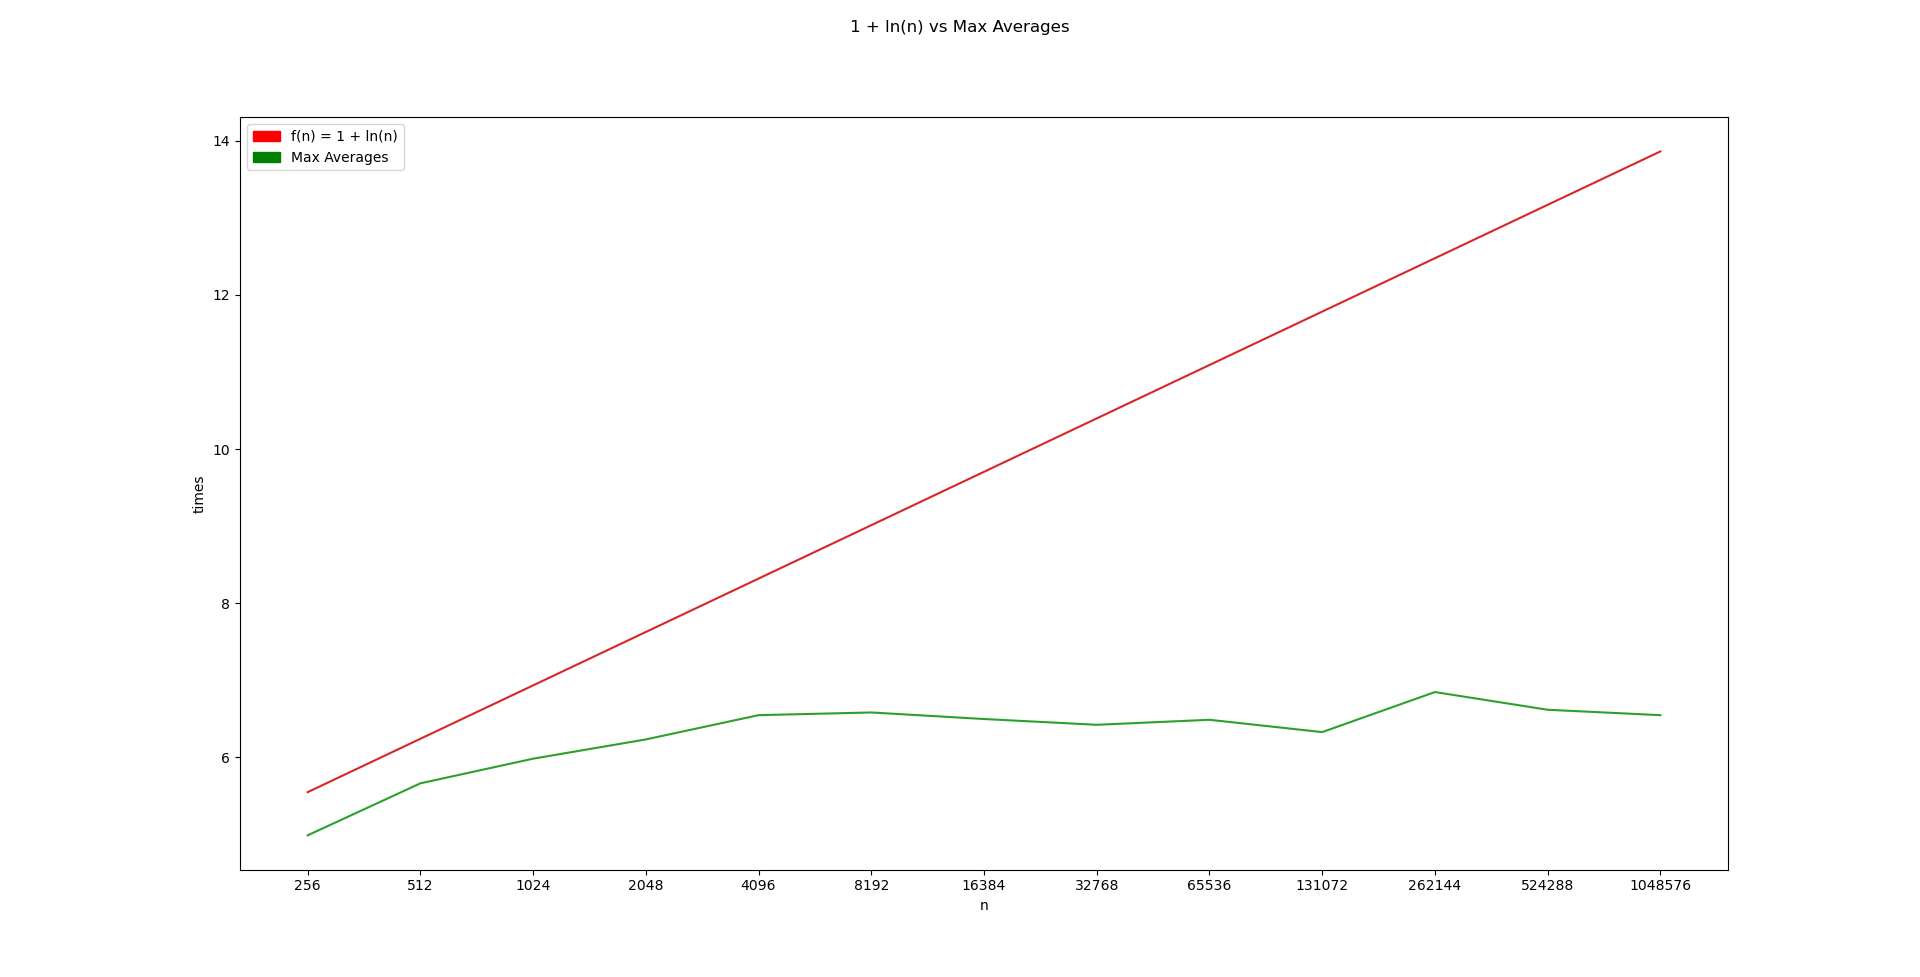
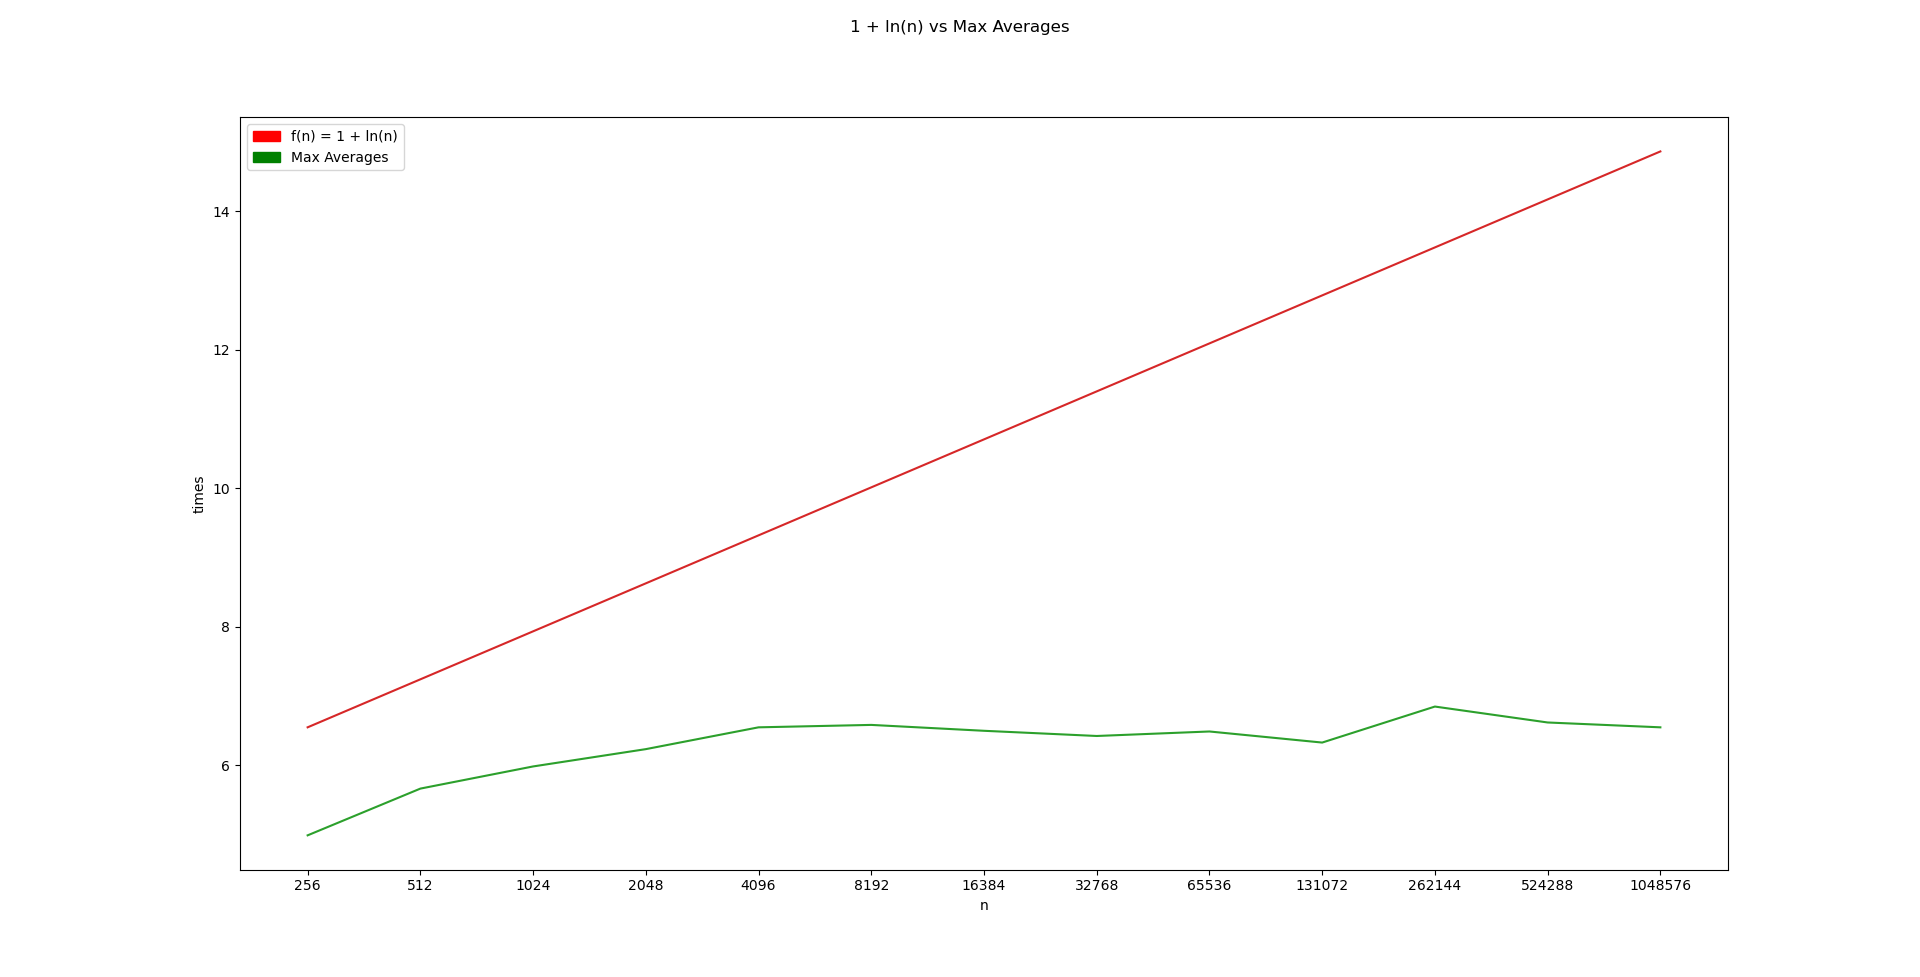
E6F

diff --git a/E6/plot.py b/E6/plot.py
@@ -27,7 +27,7 @@ def main():
         qResults.append(times[1])
     inputFile.close()
 
-    Y = [(log(x)) for x in xFooLogN]
+    Y = [(1 + log(x)) for x in xFooLogN]
 
     #1
     plt.figure(0)
